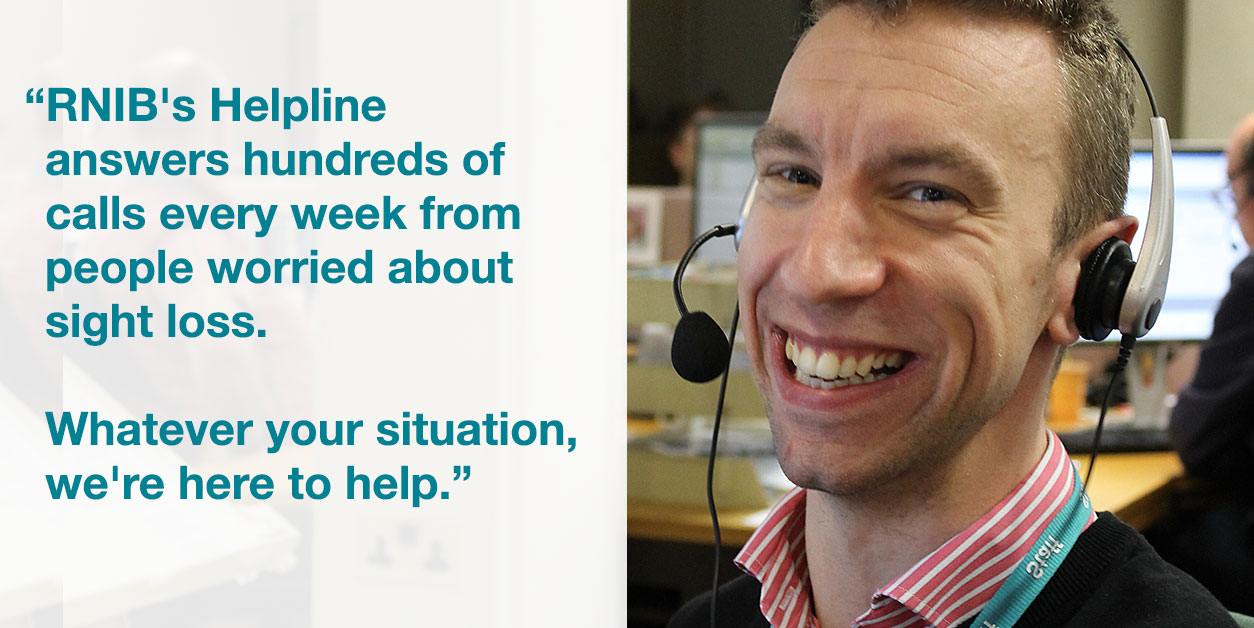
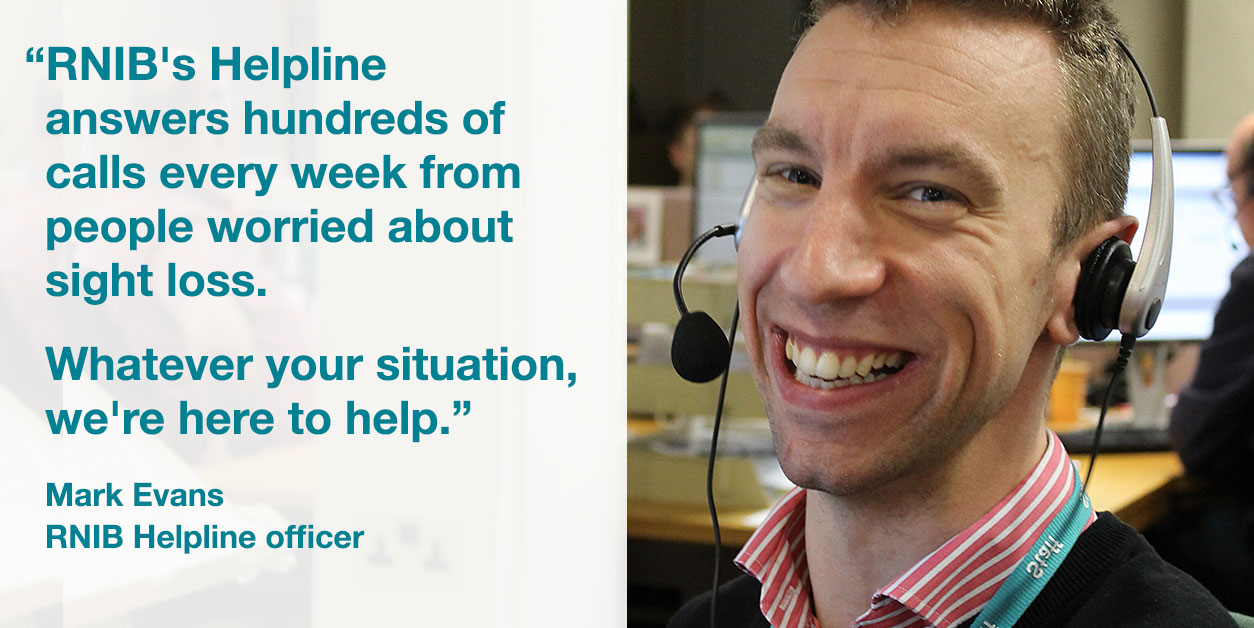
Copy updates and updated slide image

Changed region(s): [[0.0, 0.0605, 0.4665, 0.6051], [0.0311, 0.6354, 0.4665, 0.8774]]

diff --git a/index.html b/index.html
@@ -113,15 +113,15 @@
         <div class="container">
             <nav class="secondary-nav" role="navigation">
                 <ul>
-                    <li><a href="#"><abbr title="Royal National Institute of Blind People" lang="en">RNIB</abbr> helpline</a></li>
+                    <li><a href="#"><abbr title="Royal National Institute of Blind People" lang="en">RNIB</abbr> Helpline</a></li>
                   <li><a href="#">Contact us</a></li>
                   <li><a href="#">Help</a></li>
                                     
                 </ul>
             </nav>
             <div class="brand">
-              <a href="www.rnib.org.uk" target="_blank">
-                  <abbr title="Royal National Institute of Blind People" lang="en"><img src="img/RNIBLogo.png" alt="RNIB Home (New Window)" /></abbr>
+              <a href="http://www.rnib.org.uk" target="_blank">
+                  <abbr title="Royal National Institute of Blind People" lang="en"><img src="img/RNIBLogo.png" alt="RNIB Home (new window)" /></abbr>
               </a> 
             </div>
             
@@ -139,7 +139,7 @@
       <div class="container">
         <div class="title">
           <h1><span>Save your sight</span> Spot the signs</h1>
-          <p>Age-related macular degeneration (AMD) can destroy your sight in just three months. If you're over 50, you're most at risk. RNIB can help you spot the signs of AMD and other eye diseases.</p>
+          <p>Age-related macular degeneration (AMD) can damage your sight in just three months. If you're over 50, you're most at risk. RNIB can help you spot the signs of AMD and other eye diseases.</p>
         </div>
 
       <div class="download-pack">
@@ -165,7 +165,7 @@
             <img alt="An image of a young girl with blur over the centre of the picture" src="img/symptom-blurred.jpg">
             <figcaption>
               <h3>Blurred vision</h3>
-              <p>Your peripheral vision is not affected and you won't feel any pain, but the centre of your vision is increasingly unclear.</p>
+              <p>Your peripheral vision is not affected and you won't feel any pain, but the centre of your vision is increasingly blurry.</p>
             </figcaption>
           </figure>
           
@@ -186,16 +186,15 @@
           </figure>
         </div>
        
-        <p class="message">If you have any of these symptoms, <a href="http://www.nhs.uk/Service-Search/Opticians/LocationSearch/9">visit your optometrist immediately</a>.</p>
-        <p class="message">If you notice a sudden change in your vision, visit <a href="http://www.nhs.uk/Service-Search/Accident%20and%20emergency%20services/LocationSearch/428">your nearest A&amp;E.</a></p>
+        <p class="message">If you have any of these symptoms, <a href="http://www.nhs.uk/Service-Search/Opticians/LocationSearch/9">visit your nearest optometrist</a>.</p>
+        <p class="message">If you notice a sudden change in your vision, <a href="http://www.nhs.uk/Service-Search/Accident%20and%20emergency%20services/LocationSearch/428">visit your nearest A&amp;E.</a></p>
         </div>
     </section>
 
     <section class="about-rnib">
       <div class="container">
-              <h2>About the <abbr title="Royal National Institute of Blind People" lang="en">RNIB</abbr></h2>
-
-                <div class="about-content">
+          <h2>About <abbr title="Royal National Institute of Blind People" lang="en">RNIB</abbr></h2>
+        <div class="about-content">
           <div class="flexslider">
           <ul class="slides">
             <li>
@@ -203,7 +202,7 @@
             </li>
             <li>
               <img src="img/2.jpg" alt="&#34;RNIB's Helpline answers hundreds of calls every week from people
-worried about sight loss. Whatever your situation, we're here to help.&#34;" />
+worried about sight loss. Whatever your situation, we're here to help.&#34; - Mark Evans, RNIB Helpline officer" />
             </li>
             <li>
               <img src="img/3.jpg" alt="Last year donations to RNIB helped 17,600 people get vital one-to-one
@@ -221,14 +220,13 @@ the UK." />
           </ul>
         </div>
       <p>Every day 100 people in the UK start to lose their sight. For some people, it's a gradual process. For others, it happens overnight. For all, it is life changing. At RNIB we're there for you, every step of the way.</p>
-      <p>Every day 100 people in the UK start to lose their sight. For some people, it's a gradual process. For others, it happens overnight. For all, it is life changing. At RNIB we're there for you, every step of the way.</p>
       <p>
-      We help people who have lost their sight continue to do the everyday things they love. We help them see themselves and their future in a more positive light. We campaign and work in partnerships to create a fairer, more inclusive society.
+      We help people who have lost their sight continue to do the everyday things they love. We help people see themselves and their future in a more positive light. We campaign and work in partnerships to create a fairer, more inclusive society.
       </p>
       <p>
       None of this would be possible without generous donations from the public. Help us reach everyone who needs us, every step of the way. <a href="https://donate.rnib.org.uk/donation/spotthesigns/?promo=CSOLA1331R"
 onclick="_gaq.push(['_link', 'https://donate.rnib.org.uk/donation/spotthes
-igns/?promo=CSOLA1331R']); return false;">Donate now (New Window)</a>. 
+igns/?promo=CSOLA1331R']); return false;" target="_blank">Donate now (new window)</a>. 
       </p>
       </div>
       <div class="newsletter-form-wrap">
@@ -236,7 +234,7 @@ igns/?promo=CSOLA1331R']); return false;">Donate now (New Window)</a>.
        <form id="sign-up-form" name="form1" class="wufoo topLabel page newsletter-form" autocomplete="off" enctype="multipart/form-data" method="post" novalidate
       action="https://rnib.wufoo.com/forms/z7x3p3/#public">
 
-            <h3>We're here to help <br />Sign up for our eNewsletter</h3>
+            <h3>We're here to help <br />Sign up for our enewsletter</h3>
             <p>Get eye health advice from our experts and keep up to date with our vital work.</p>
             <p>Fields marked with an asterisk (*) are mandatory.</p>
          <ul>
@@ -303,10 +301,10 @@ igns/?promo=CSOLA1331R']); return false;">Donate now (New Window)</a>.
            <p>
             <a href="http://dl.groovygecko.net/anon.groovy/clients/rnib/spot-the-signs-radio-
 transcript.doc" target="_blank" class="transcript">Radio advert transcript (Word, 163kb)</a>
-            <a href="http://ms.groovygecko.net/groovyg/clients/rnib/spot-the-signs-radio.mp3" target="_blank" class="radio">Listen to the radio advert (mp3, 1.07mb) (New Window)</a>
+            <a href="http://dl.groovygecko.net/anon.groovy/clients/rnib/spot-the-signs-radio.mp3" target="_blank" class="radio">Listen to the radio advert (mp3, 1.07mb) (new window)</a>
            </p>
            <p><a href="http://dl.groovygecko.net/anon.groovy/clients/rnib/spot-the-signs-cinema
--transcript.doc" target="_blank" class="transcript">Cinema advert transcript (Word, 163kb) (New Window)</a> </p>
+-transcript.doc" target="_blank" class="transcript">Cinema advert transcript (Word, 163kb) (new window)</a> </p>
           <div class="embed">
            
             <div id="video-embed">
@@ -334,7 +332,7 @@ transcript.doc" target="_blank" class="transcript">Radio advert transcript (Word
       <div class="container">
         <h2><span>Save your sight</span> Spot the signs</h2>
         <p>AMD isn't the only eye condition that can affect your sight, particularly if you're aged over 50. Our eye health pack will help you spot the signs and understand what treatments are available. There is also information about <a href="http://www.rnib.org.uk/eyehealth/Pages/eye_health.aspx?utm_source=spotth
-esigns&utm_medium=website&utm_campaign=eyehealth" target="_blank">eye health (New Window)</a> and <a href="http://www.rnib.org.uk/livingwithsightloss/copingwithsightloss/emotionalsupport/" target="_blank">emotional support (New Window)</a> on RNIB's website, or you can call us on 0303 123 9999.</p>
+esigns&utm_medium=website&utm_campaign=eyehealth" target="_blank">eye health (new window)</a> and <a href="http://www.rnib.org.uk/livingwithsightloss/copingwithsightloss/emotionalsupport/" target="_blank">emotional support (new window)</a> on RNIB's website, or you can call us on 0303 123 9999.</p>
         <a href="http://dl.groovygecko.net/anon.groovy/clients/rnib/spot-the-signs.pdf" class="button pdf-download" onClick="_gaq.push(['_trackEvent', 'Conversion', 'PDF_Download', ]);">
           <span class="alpha">Download the fact sheet</span>
           <span class="beta">.pdf file</span>
